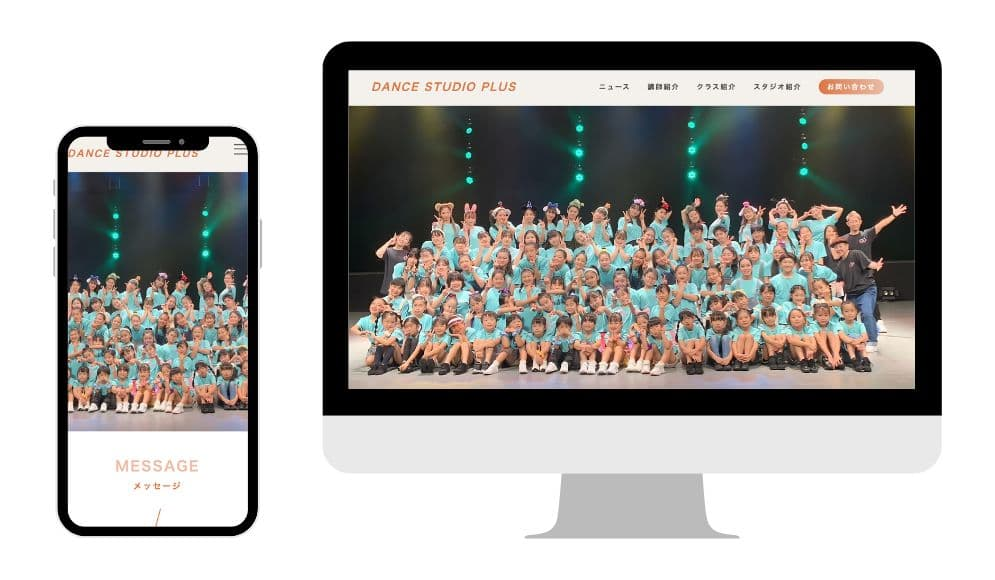
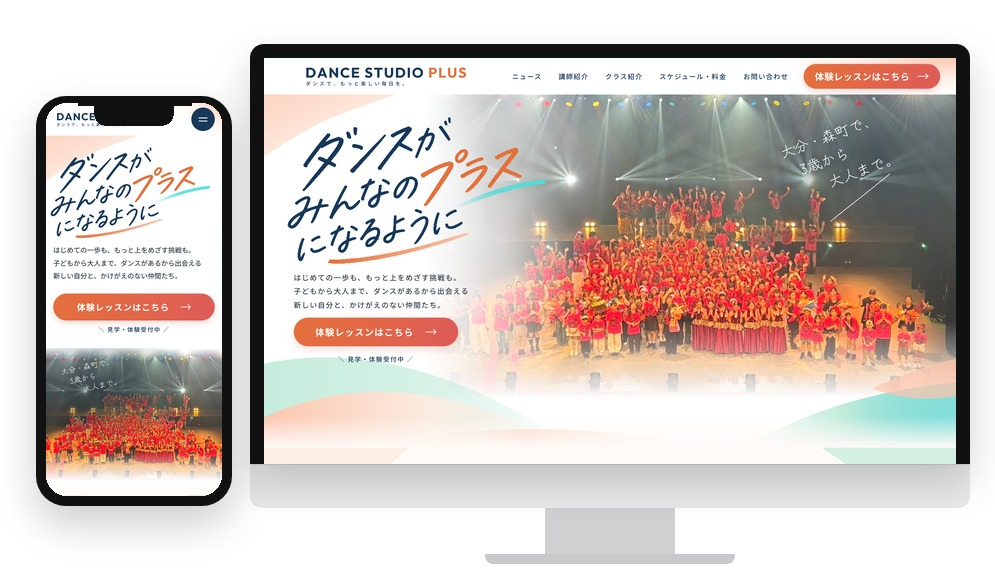
works: DANCE STUDIO PLUS 様の画像をデザインリニューアル後のサイトに差し替え、担当範囲に「デザインリニューアル」を追加

diff --git a/src/lib/works.ts b/src/lib/works.ts
@@ -188,7 +188,7 @@ export const WORKS: Work[] = [
     { slug: "mew-seed", name: "株式会社ミュウシード（夢み寮）様", category: "company", label: "介護・福祉", image: w23, summary: "住宅型有料老人ホームのホームページ。", scope: ["ホームページ制作", "公開後の保守", "月次レポート"], url: "https://mew-seed.com/" },
     { slug: "personal-gym-me", name: "パーソナルジムMe 様", category: "shop", label: "フィットネス", image: w18, summary: "パーソナルジムのホームページ。", scope: ["ホームページ制作"], url: "https://me-gym.com/" },
     { slug: "kurotori-bochi", name: "黒鳥墓地 様", category: "shop", label: "霊園", image: w20, summary: "霊園のホームページ。", scope: ["ホームページ制作"], url: "https://kurotori-bochi.site/" },
-    { slug: "dance-studio-plus", name: "DANCE STUDIO PLUS 様", category: "school", label: "ダンススクール", image: w9, summary: "ダンススクールのホームページ。", scope: ["ホームページ制作", "公開後の保守", "月次レポート"], url: "https://dancestudioplus.com/" },
+    { slug: "dance-studio-plus", name: "DANCE STUDIO PLUS 様", category: "school", label: "ダンススクール", image: w9, summary: "ダンススクールのホームページ。", scope: ["ホームページ制作", "デザインリニューアル", "公開後の保守", "月次レポート"], url: "https://dancestudioplus.com/" },
     { slug: "colours-musical-studio", name: "Colours Musical Studio 様", category: "school", label: "ミュージカル教室", image: w2, summary: "ミュージカル教室のホームページ。", scope: ["ホームページ制作", "公開後の保守", "月次レポート"], url: "https://colours-musicalstudio.com" },
     { slug: "ecc-ichiriyama", name: "ECCジュニア 一里山教室 様", category: "school", label: "英語教室", image: w4, summary: "英語教室のホームページ。", scope: ["ホームページ制作"], url: "https://eccjunior-ichiriyama.com/" },
     { slug: "maya-kodomonoie", name: "まや子どもの家 様", category: "school", label: "教育・スクール", image: w3, summary: "まや子どもの家のホームページ。", scope: ["ホームページ制作"], url: "https://maya-kodomonoie.com/" },
